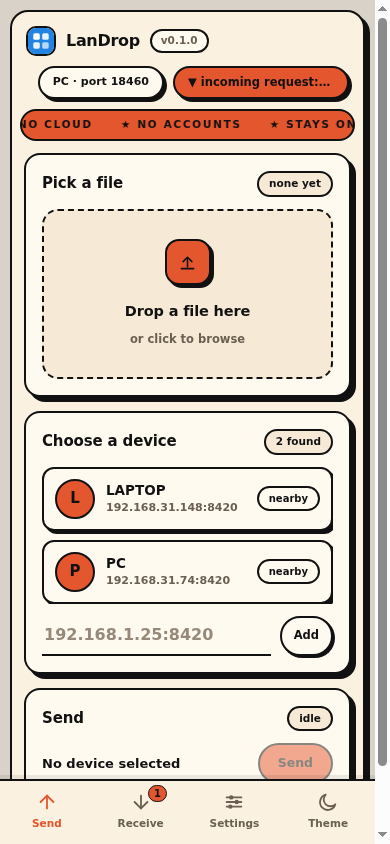
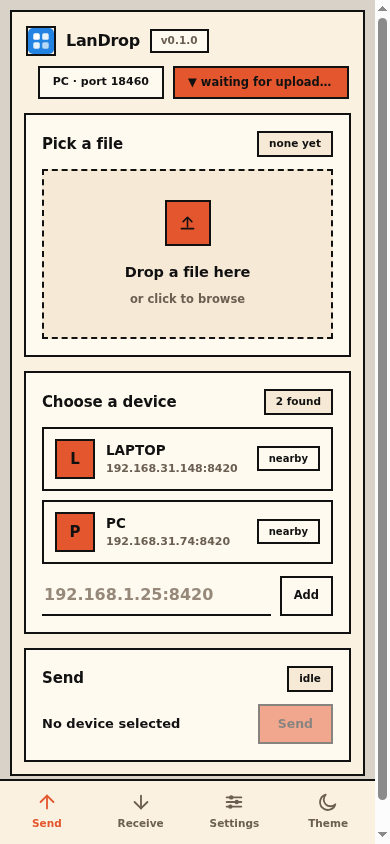
UI: flat square look — no shadows, no rounded corners, marquee removed
- Every shadow is gone (cards, buttons, tabs, chips, inputs, dialogs, toasts,
  bottom nav) and the radius tokens are zero, so all surfaces are rectangles;
  the small status dots are squares too.
- Hover states switch background/colour instead of lifting, matching the flat
  geometry.
- Removed the scrolling marquee ribbon ("LAN only / No cloud / ...") from the
  markup and the stylesheet, along with its keyframes and reduced-motion rule.
- Screenshots in docs/ refreshed; desktop bundles and the signed arm64 phone
  APK rebuilt.

diff --git a/ui/styles.css b/ui/styles.css
@@ -14,10 +14,10 @@
   --font: ui-sans-serif, system-ui, -apple-system, "Segoe UI", Roboto,
     "Helvetica Neue", Arial, sans-serif;
 
-  --r-shell: 22px;
-  --r-card: 16px;
-  --r-chip: 12px;
-  --r-pill: 999px;
+  --r-shell: 0;
+  --r-card: 0;
+  --r-chip: 0;
+  --r-pill: 0;
 
   /* Light palette (from the reference) */
   --page: #d8d2c8;
@@ -35,8 +35,8 @@
   --ok-soft: rgba(17, 17, 17, 0.06);
   --err: #c62f0c;
   --danger-soft: rgba(198, 47, 12, 0.14);
-  --shadow: 5px 5px 0 var(--line);
-  --shadow-sm: 3px 3px 0 var(--line);
+  --shadow: none;
+  --shadow-sm: none;
   --outline: 2px;
 }
 
@@ -98,39 +98,6 @@ body {
 }
 
 /* --------------------------------------------------------------------------
-   Marquee ribbon (reference: ★ TIER TWO ★ strip)
-   -------------------------------------------------------------------------- */
-
-.marquee {
-  overflow: hidden;
-  margin: -4px -4px 0;
-  border: var(--outline) solid var(--line);
-  border-radius: var(--r-pill);
-  background: var(--accent);
-  color: var(--accent-ink);
-}
-
-.marquee-track {
-  display: flex;
-  gap: 28px;
-  width: max-content;
-  padding: 6px 18px;
-  font-size: 10.5px;
-  font-weight: 800;
-  letter-spacing: 0.16em;
-  text-transform: uppercase;
-  white-space: nowrap;
-  animation: marquee 26s linear infinite;
-}
-
-.marquee-track span { display: inline-flex; align-items: center; gap: 28px; }
-
-@keyframes marquee {
-  from { transform: translateX(0); }
-  to { transform: translateX(-50%); }
-}
-
-/* --------------------------------------------------------------------------
    Top bar with tabs
    -------------------------------------------------------------------------- */
 
@@ -151,7 +118,6 @@ body {
 
 .logo-img {
   display: block;
-  border-radius: 10px;
   border: var(--outline) solid var(--line);
 }
 
@@ -193,10 +159,10 @@ body {
   font-weight: 700;
   cursor: pointer;
   box-shadow: var(--shadow-sm);
-  transition: transform 120ms ease, box-shadow 120ms ease, background 120ms ease;
+  transition: background 120ms ease, border-color 120ms ease, color 120ms ease;
 }
 
-.tab:hover { transform: translate(-1px, -1px); }
+.tab:hover { background: var(--card-2); }
 
 .tab.active {
   background: var(--accent);
@@ -263,7 +229,7 @@ body {
   box-shadow: var(--shadow-sm);
 }
 
-.activity:hover { transform: translate(-1px, -1px); }
+.activity:hover { filter: brightness(1.06); }
 
 .theme-toggle {
   display: grid;
@@ -290,7 +256,6 @@ html[data-theme="dark"] .icon-sun { display: block; }
 .theme-toggle:hover {
   background: var(--accent);
   color: var(--accent-ink);
-  transform: translate(-1px, -1px);
 }
 
 /* --------------------------------------------------------------------------
@@ -401,7 +366,6 @@ main { min-width: 0; }
   place-items: center;
   width: 46px;
   height: 46px;
-  border-radius: 14px;
   border: var(--outline) solid var(--line);
   background: var(--accent);
   color: var(--accent-ink);
@@ -473,10 +437,10 @@ main { min-width: 0; }
   background: var(--card);
   cursor: pointer;
   box-shadow: var(--shadow-sm);
-  transition: transform 120ms ease, box-shadow 120ms ease, background 120ms ease;
+  transition: background 120ms ease, border-color 120ms ease, color 120ms ease;
 }
 
-.peer:hover { transform: translate(-1px, -1px); }
+.peer:hover { background: var(--card-2); }
 
 .peer.selected {
   background: var(--accent);
@@ -588,12 +552,11 @@ main { min-width: 0; }
   font-weight: 800;
   cursor: pointer;
   box-shadow: var(--shadow-sm);
-  transition: transform 120ms ease, box-shadow 120ms ease, background 120ms ease;
+  transition: background 120ms ease, border-color 120ms ease, color 120ms ease;
 }
 
 .btn:hover:not(:disabled) {
-  transform: translate(-1px, -1px);
-  box-shadow: 4px 4px 0 var(--line);
+  background: var(--card-2);
 }
 
 .btn:disabled {
@@ -621,7 +584,6 @@ main { min-width: 0; }
   padding: 5px 12px;
   min-height: 30px;
   font-size: 11.5px;
-  box-shadow: 2px 2px 0 var(--line);
 }
 
 /* Underline fields (reference: Email / Subscription rows). */
@@ -661,13 +623,11 @@ input[type="checkbox"] {
   width: 20px;
   height: 20px;
   flex: none;
-  border-radius: 6px;
   border: var(--outline) solid var(--line);
   background: var(--card);
   display: inline-grid;
   place-content: center;
   cursor: pointer;
-  box-shadow: 2px 2px 0 var(--line);
 }
 
 input[type="checkbox"]:checked {
@@ -744,7 +704,6 @@ input[type="checkbox"]:checked::before {
   content: "";
   width: 7px;
   height: 7px;
-  border-radius: 50%;
   border: 1.5px solid var(--line);
   background: var(--ink);
 }
@@ -907,7 +866,6 @@ input[type="checkbox"]:checked::before {
   border-radius: var(--r-card);
   background: var(--surface);
   color: var(--ink);
-  box-shadow: 8px 8px 0 var(--line);
 }
 
 .picker::backdrop {
@@ -1077,7 +1035,6 @@ input[type="checkbox"]:checked::before {
   width: 9px;
   height: 9px;
   margin-top: 4px;
-  border-radius: 50%;
   border: 1.5px solid var(--line);
   background: var(--ink);
 }
@@ -1105,7 +1062,6 @@ input[type="checkbox"]:checked::before {
     min-height: auto;
     padding: 12px;
     gap: 12px;
-    border-radius: 18px;
   }
   .topbar { gap: 10px; }
   .tabs { display: none; }
@@ -1132,7 +1088,6 @@ input[type="checkbox"]:checked::before {
     grid-template-columns: repeat(4, 1fr);
     border-top: var(--outline) solid var(--line);
     background: var(--surface);
-    box-shadow: 0 -4px 0 rgba(17, 17, 17, 0.08);
   }
 
   .nav-item {
@@ -1193,5 +1148,4 @@ input[type="checkbox"]:checked::before {
     animation-iteration-count: 1 !important;
     transition-duration: 0.01ms !important;
   }
-  .marquee-track { animation: none; }
 }

diff --git a/ui/index.html b/ui/index.html
@@ -40,12 +40,6 @@
       </div>
     </header>
 
-    <div class="marquee" aria-hidden="true">
-      <div class="marquee-track">
-        <span>★ LAN only</span><span>★ No cloud</span><span>★ No accounts</span><span>★ Stays on your network</span><span>★ LAN only</span><span>★ No cloud</span><span>★ No accounts</span><span>★ Stays on your network</span>
-      </div>
-    </div>
-
     <main>
       <!-- ============ SEND ============ -->
       <section class="panel active" id="panel-send">

diff --git a/README.md b/README.md
@@ -33,10 +33,10 @@ receiving side.
   login, no shared secret required — the app is open on your LAN by design)
 - Live UI updates over Server-Sent Events (SSE), including throttled progress;
   polling only as a fallback while SSE is unavailable
-- Retro-modern UI (cream surfaces, one bold red accent, thick black outlines
-  with hard offset shadows, marquee ribbon, dashed upload box, underline
-  fields, red pill primary buttons, bottom nav on phones) with a matching dark
-  mode — toggle in the top bar, saved per browser; light is the default
+- Retro-modern UI (cream surfaces, one bold red accent, thick black outlines,
+  flat surfaces with **no shadows** and **square corners**, dashed upload box,
+  underline fields, red primary buttons, bottom nav on phones) with a matching
+  dark mode — toggle in the top bar, saved per browser; light is the default
 - Desktop notifications on incoming requests, and a progress-bar notification
   while receiving (`notify-send` / notification daemon)
 - Persistent settings (name, port, download dir) in `~/.config/landrop/config.toml`;
